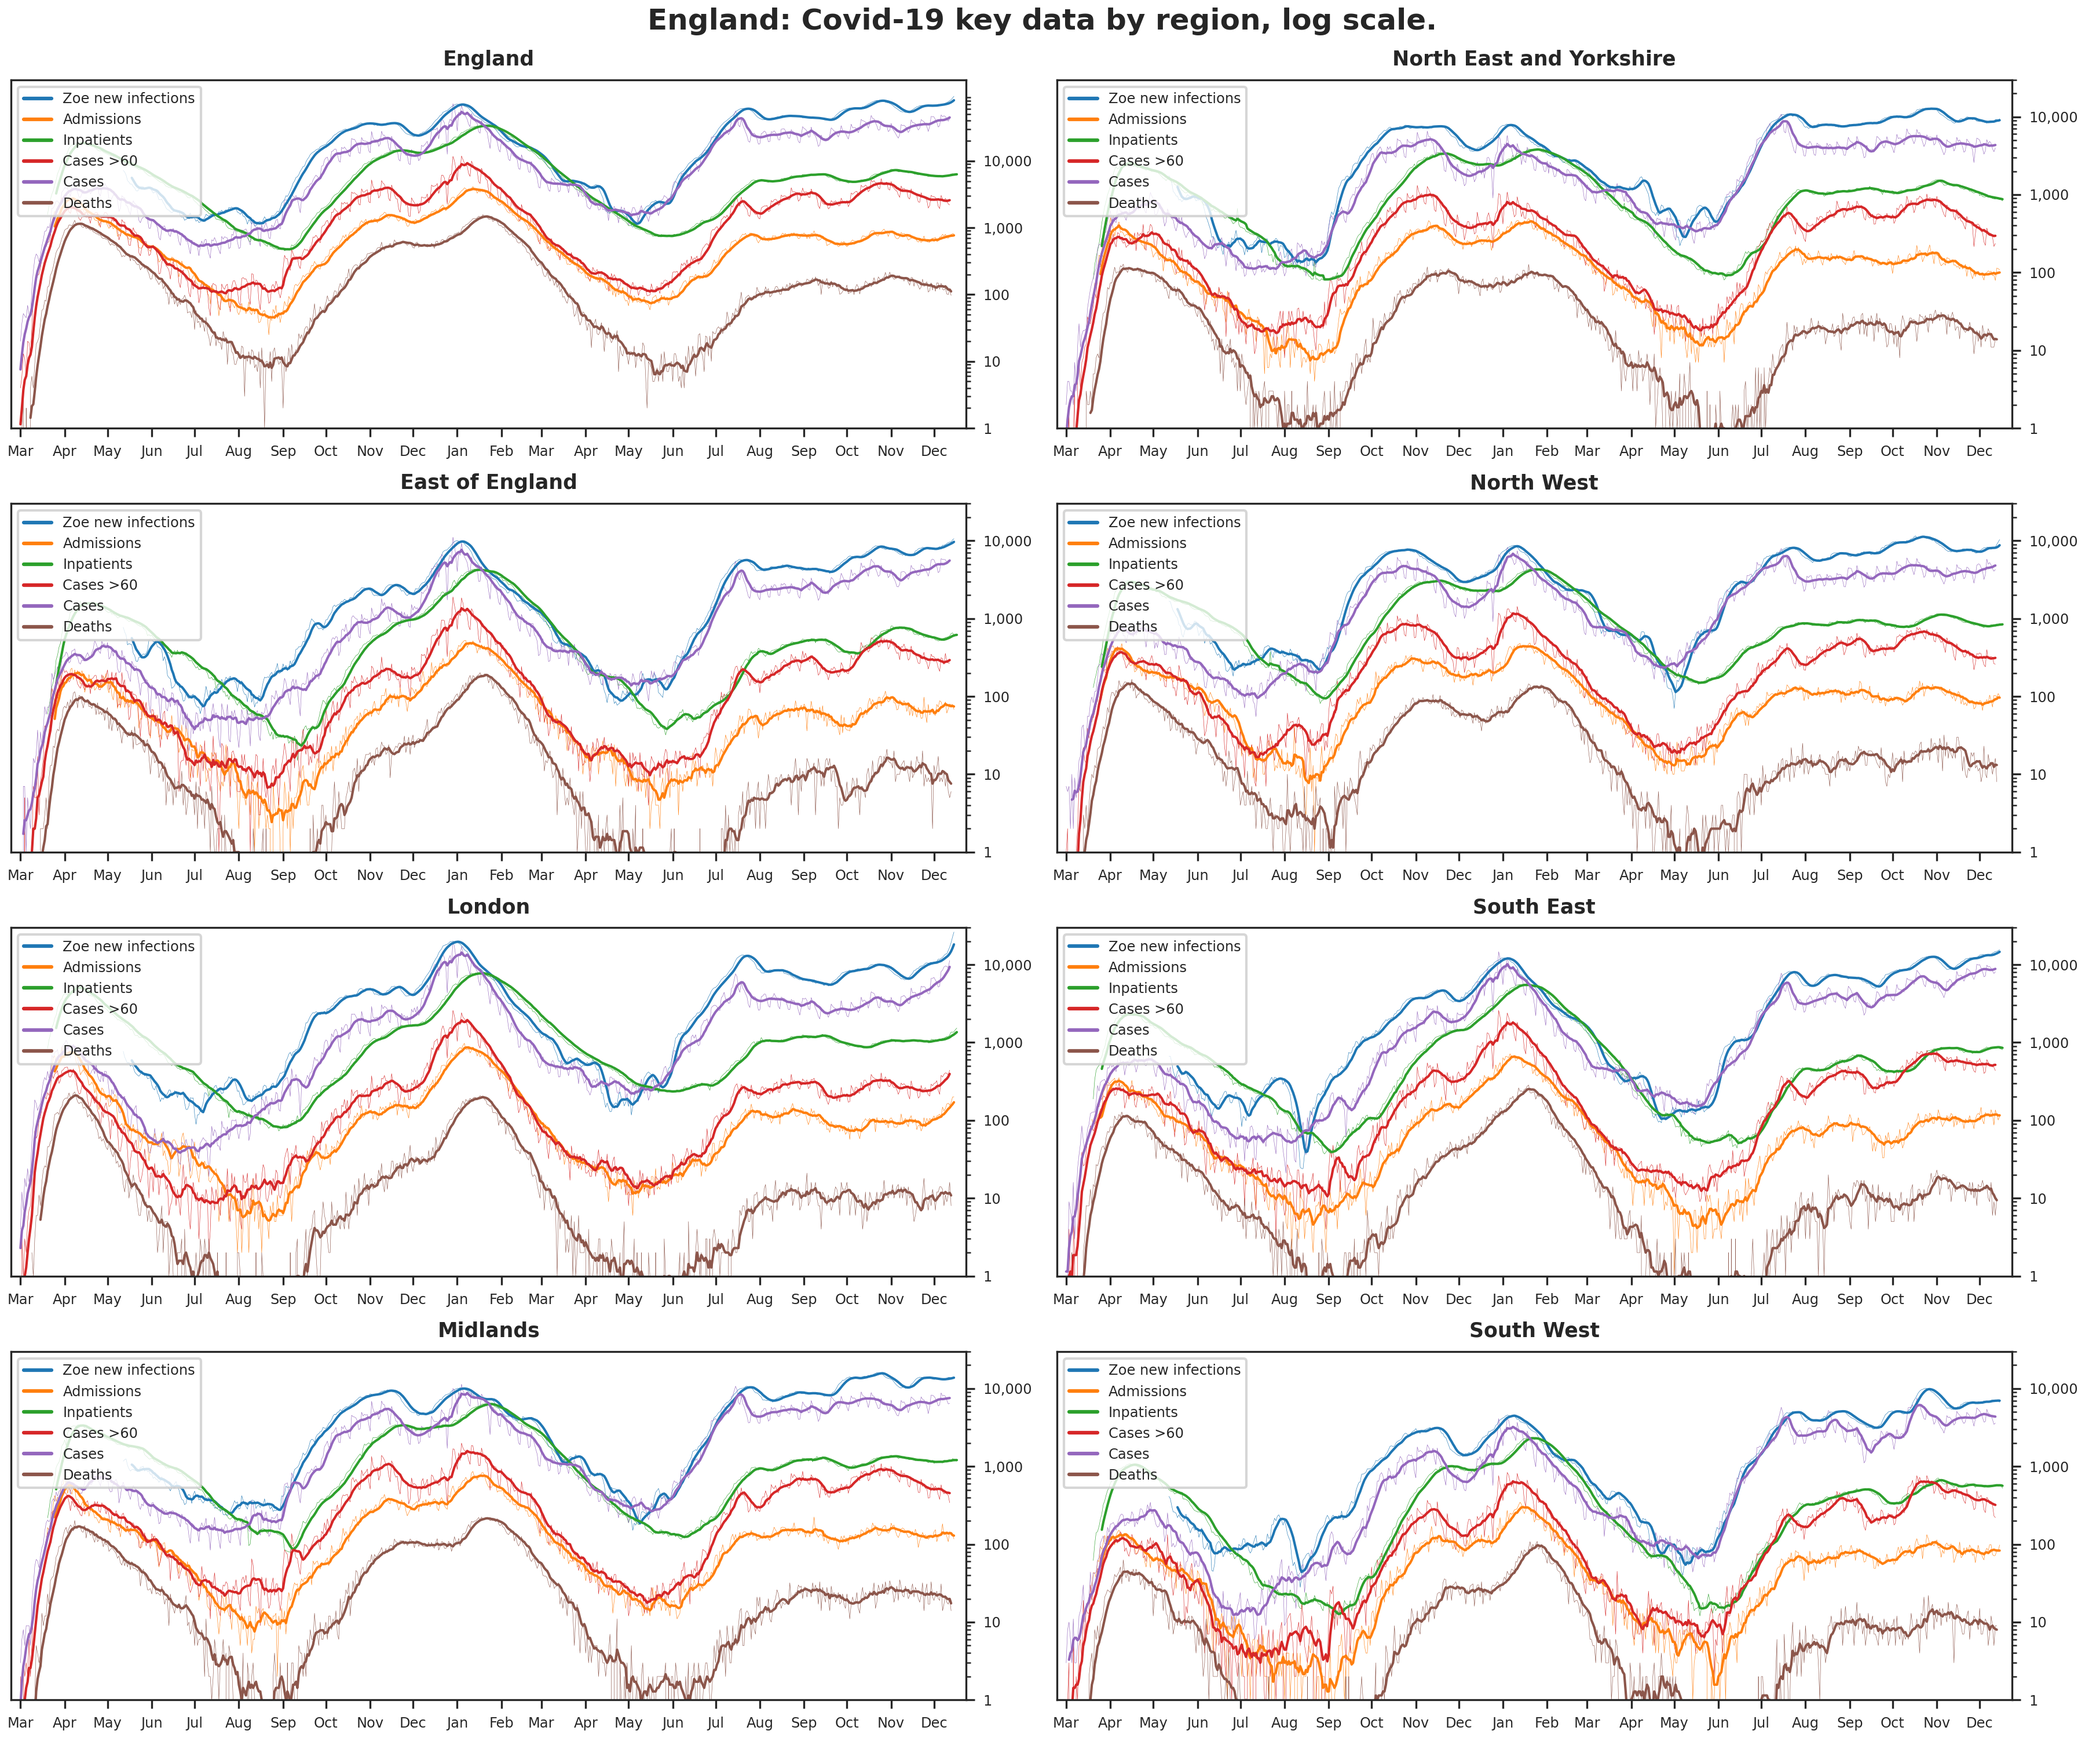
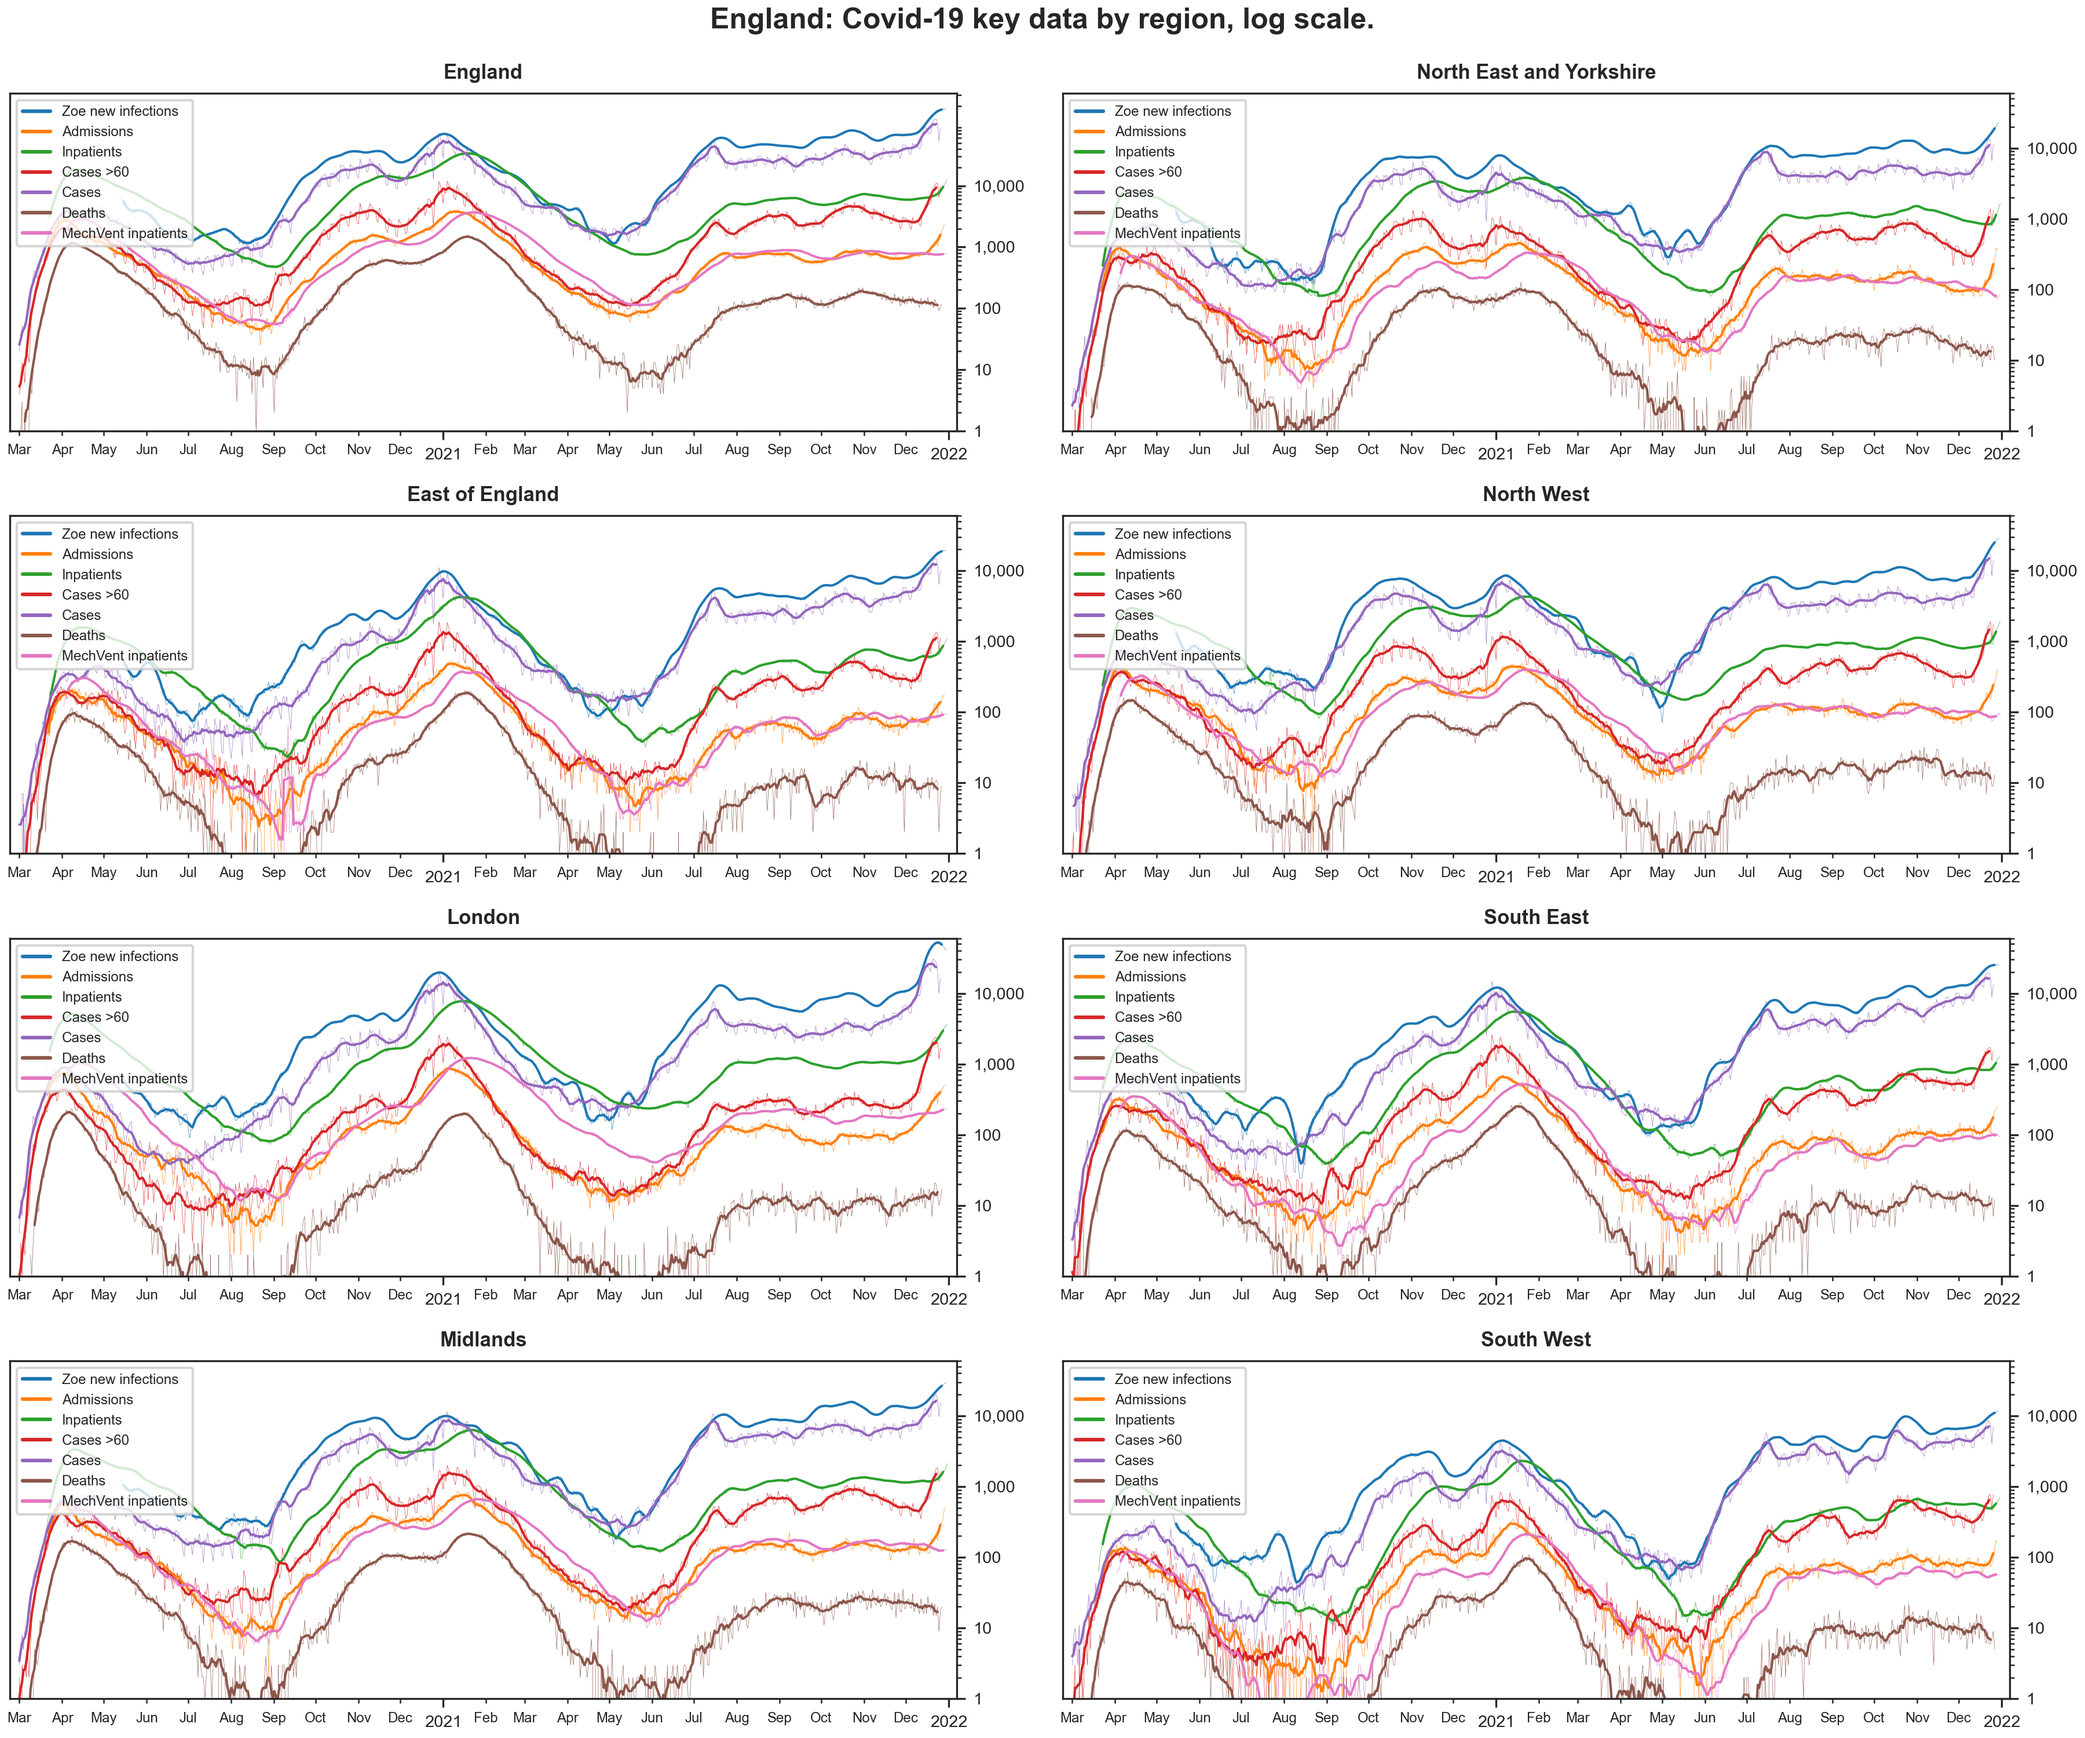
added year to x-axes

Changed region(s): [[0.0, 0.0, 0.9956, 1.0], [0.4978, 0.744, 0.9956, 1.0], [0.4978, 0.496, 0.9956, 0.744]]

diff --git a/src/modules/utils.py b/src/modules/utils.py
@@ -5,7 +5,7 @@ Utils to aggregate dataframes into a single dataframe and chart-related
 """
 import pandas as pd
 import matplotlib as mpl  # for formatting log y axis
-from matplotlib.dates import MonthLocator  # for formatting x axis
+from matplotlib.dates import YearLocator, MonthLocator  # for formatting x axis
 import matplotlib.dates as mdates  # for formatting x axis
 import matplotlib.pyplot as plt
 import seaborn as sns
@@ -38,11 +38,17 @@ def format_ax(ax: plt.subplot, region: str, lgnd_labels: list) -> plt.subplot:
         ax.set_ylim(bottom=1)
     else:
         ax.set_ylim(bottom=1, top=60000)
+    
     ax.yaxis.tick_right()
     ax.yaxis.set_label_text(label="")
     ax.yaxis.set_major_formatter(mpl.ticker.StrMethodFormatter("{x:,.0f}"))
-    ax.xaxis.set_major_locator(MonthLocator())
-    ax.get_xaxis().set_major_formatter(mdates.DateFormatter("%b"))
+    
+    ax.xaxis.set_major_locator(YearLocator(1))
+    ax.xaxis.set_major_formatter(mdates.DateFormatter('%Y'))
+
+    ax.xaxis.set_minor_locator(MonthLocator())
+    ax.get_xaxis().set_minor_formatter(mdates.DateFormatter("%b"))
+    
     return ax
 
 

diff --git a/src/covid_chart_generator.py b/src/covid_chart_generator.py
@@ -87,9 +87,11 @@ def dashboard(to_plot, regions):
             ax=ax,
             linewidth=1.0,
         )
+        ax.tick_params(which='major', labelsize="x-small")
+        ax.tick_params(which='minor', labelsize="xx-small")
         ax = format_ax(ax, region, list(to_plot.columns.droplevel(1).unique()))
         ax.set_title(label=region, fontsize="small", fontweight="semibold")
-        ax.tick_params(labelsize="xx-small")
+        
     f.suptitle(
         "England: Covid-19 key data by region, log scale.", fontweight="bold"
     )

diff --git a/src/modules/dataframe_builder.py b/src/modules/dataframe_builder.py
@@ -301,6 +301,7 @@ def make_default_dataframes():
     healthcare = Healthcare()
     admissions = healthcare.metric("admissions")
     inpatients = healthcare.metric("inpatients")
+    icu = healthcare.metric("icu")
     cases = Cases()
     o60 = cases.metric("o60")
     cases = cases.metric("all_ages")
@@ -320,6 +321,7 @@ def make_default_dataframes():
             "Cases >60": o60,
             "Cases": cases,
             "Deaths": deaths,
+            "MechVent inpatients": icu,
         }
     )
     return aggreg_df, regions_to_use
